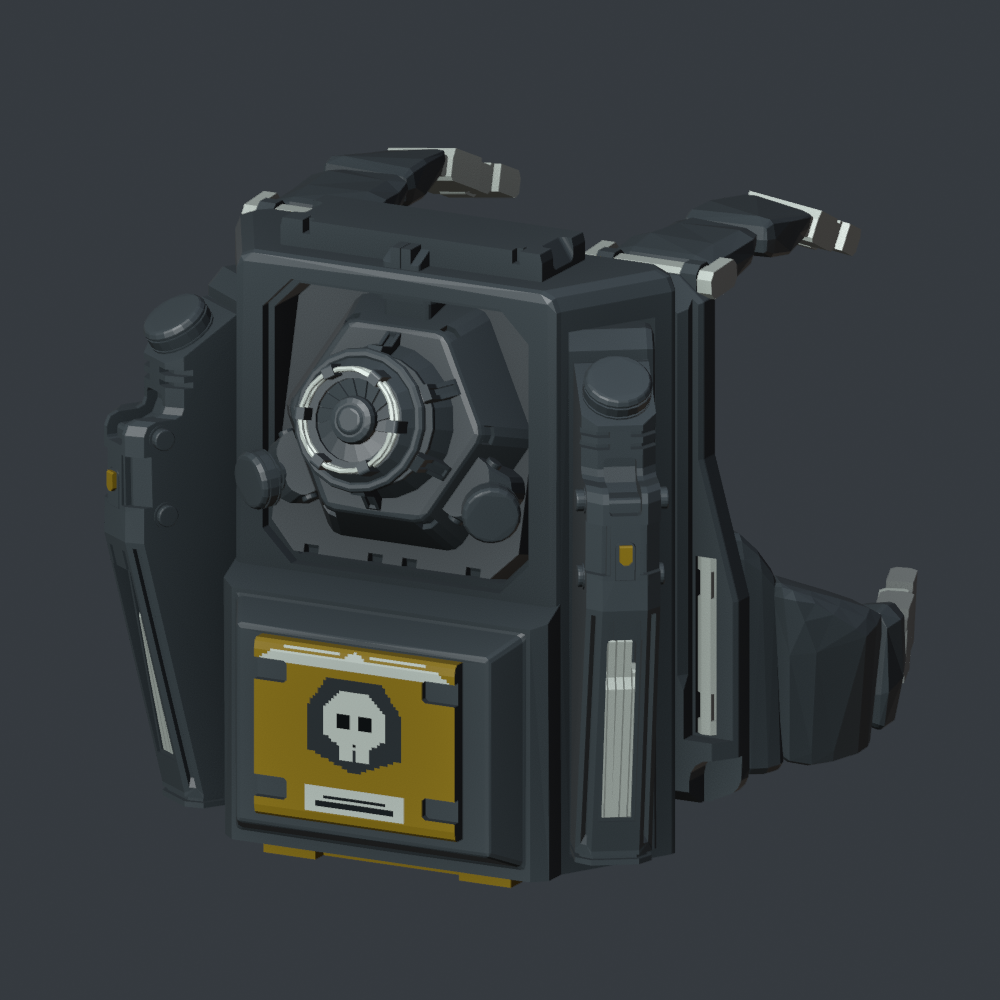
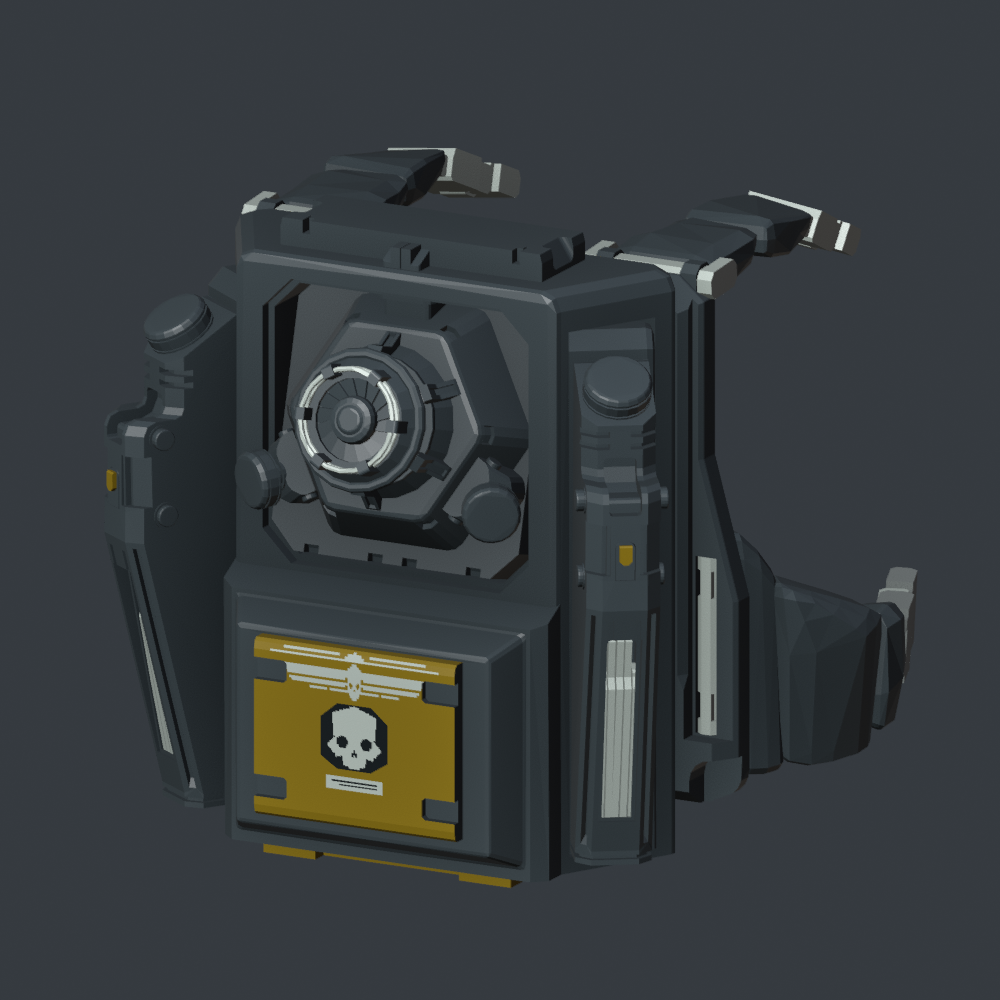
Refine shield pack badge using drop pod skull emblem

Changed region(s): [[0.248, 0.651, 0.434, 0.837]]

diff --git a/art/models/防护罩生成包/模型说明.md b/art/models/防护罩生成包/模型说明.md
@@ -7,3 +7,5 @@
 本版 15,394 个三角面，原模型 17,558 个，减少约 12.3%。保留可动部件分组及原始轴心；本次为静态模型制作，尚未接入游戏及完整动作。
 
 预览由 Blockbench 导出的模型生成。原始解包资源不包含在本目录中。
+
+骷髅铭牌复用空投仓已确认的骷髅轮廓，保持左右对称，并独立分配 512×512 贴图及平面 UV；眼窝、鼻孔和齿部保留清晰轮廓。此次修改不增加模型面数。
